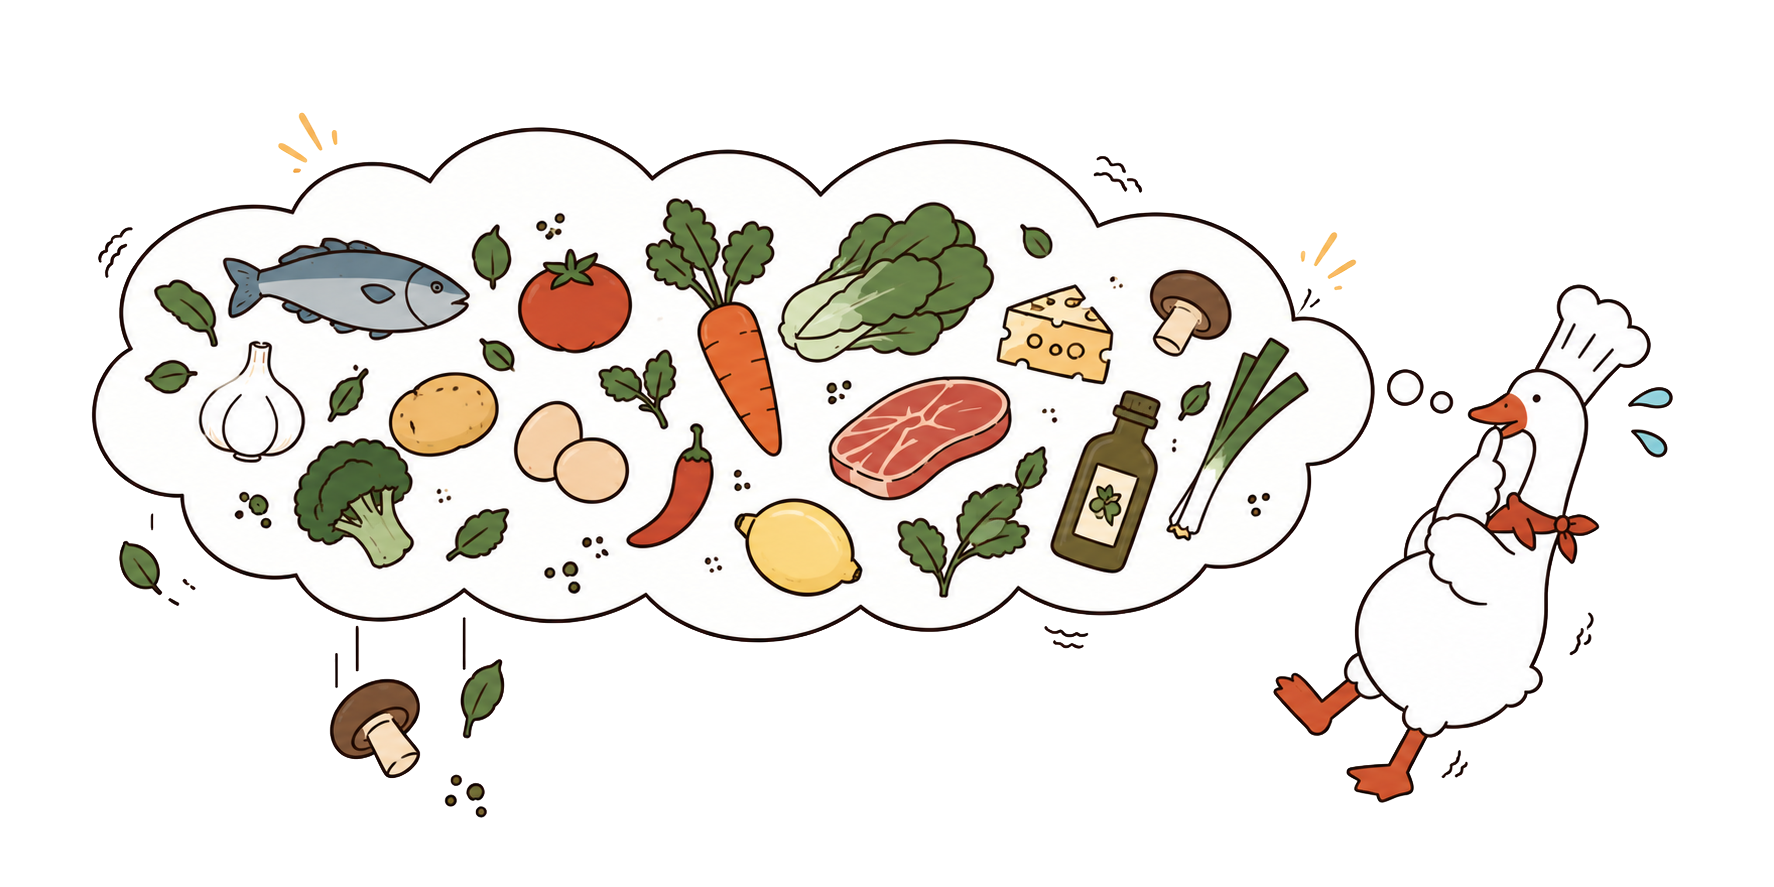
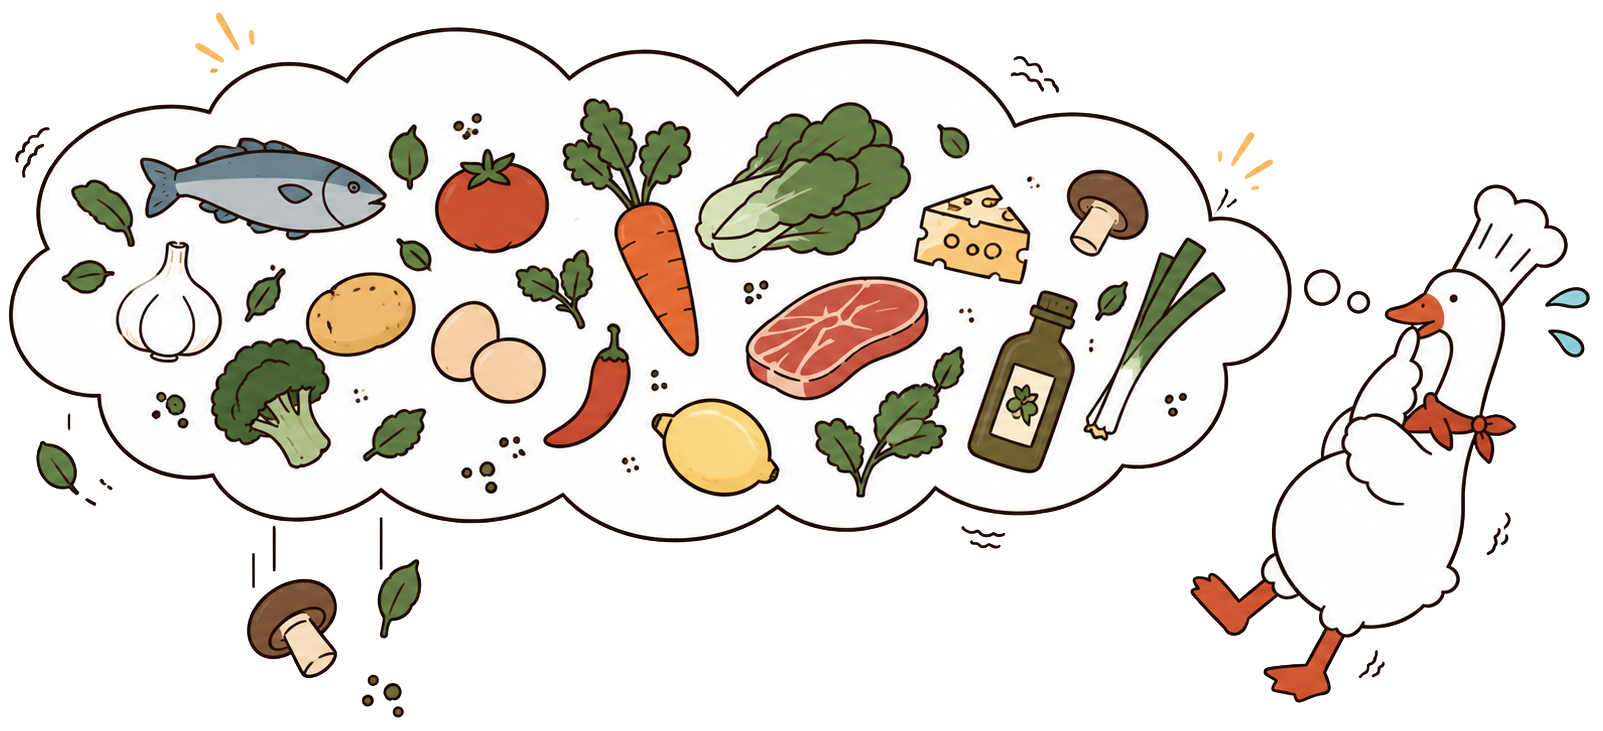
Both headers stand their goose in the same frame
The two scenery frames had drifted: Cooks held its choir in a 380px
frame with the art at 90% and left-aligned inside it, Conversation held
its goose in a 580px frame with the art at 60% and pushed flush right.
Same idea, different numbers, so the bird landed in a different place
on each page.

One definition now, .ds-scene / .ds-scene-art in design-v4.css, next to
the other page furniture. Both pages measure identically: a 380px frame
at the row's right, art 342px wide at the frame's leading edge, hanging
8px below the baseline so the goose stands on the line the aside sits
on. The art keeps a margin of white to its right rather than running
into the page gutter.

Only the singing stays local to Cooks — the choir still grows to full
width and sways while a cook is reading. The conversation goose is
still scenery and still does nothing.

Conversation's title row takes Cooks' gap, top padding and copy basis
with it, so the two headers are the same object.

Also commits the replaced chef-goose-thinking-wide.png (1603x731, was
1774x887), which is what has been on disk and rendering since it was
swapped in.

diff --git a/src/pages/ConversationPage.css b/src/pages/ConversationPage.css
@@ -43,16 +43,12 @@
   flex-wrap: wrap;
   align-items: flex-end;
   justify-content: space-between;
-  gap: 16px 24px;
-  padding: 24px 0 22px;
+  gap: 16px 32px;
+  padding: 26px 0 22px;
 }
-.convo-title-copy { flex: 1 1 360px; min-width: 0; display: flex; flex-direction: column; gap: 6px; }
-
-/* Scenery. It hangs a little below the row's baseline so the goose
-   stands on the line the aside sits on, and it is right-aligned inside
-   a frame wider than itself so it keeps that edge as the row reflows. */
-.convo-hero { flex: 0 1 580px; min-width: 300px; margin-bottom: -8px; }
-.convo-hero-art { display: block; width: 60%; height: auto; margin-left: auto; }
+.convo-title-copy { flex: 1 1 420px; min-width: 0; display: flex; flex-direction: column; gap: 6px; }
+/* The scenery frame is .ds-scene (design-v4.css) — the same one the
+   cooks page stands its choir in. */
 /* The underline hangs 9px below the baseline and takes no space, so the
    title reserves it rather than letting the sub-line sit on top. */
 .convo-title-mark { align-self: flex-start; margin-bottom: 6px; }
@@ -272,8 +268,6 @@
 
 @media (max-width: 720px) {
   .convo-title-row { padding: 16px 0; }
-  /* Scenery is the first thing to go when the header runs out of room. */
-  .convo-hero { display: none; }
   .convo-panel { padding: 16px; }
   .chat-row { max-width: 88%; }
   .convo-done-actions { width: 100%; justify-content: flex-end; }

diff --git a/src/pages/VoiceBindingPage.css b/src/pages/VoiceBindingPage.css
@@ -38,13 +38,11 @@
 }
 .vb-title-copy { flex: 1 1 420px; min-width: 0; display: flex; flex-direction: column; gap: 6px; }
 
-/* The choir sits a little below the row's baseline so the goslings'
-   feet land on it rather than floating above it. */
-.vb-choir { flex: 0 1 380px; min-width: 240px; margin-bottom: -8px; }
-.vb-choir-art { display: block; width: 90%; height: auto; transition: width 240ms ease-out; }
-/* Someone is singing: the choir stands to full width and sways from
-   its feet. */
-.vb-choir-art.is-singing {
+/* The frame and the resting size come from .ds-scene (design-v4.css).
+   Only the singing is this page's: the choir stands to full width and
+   sways from its feet while a cook is reading. */
+.voice-binding-page .ds-scene-art { transition: width 240ms ease-out; }
+.voice-binding-page .ds-scene-art.is-singing {
   width: 100%;
   transform-origin: 50% 100%;
   animation: vb-choir 900ms ease-in-out infinite;
@@ -653,8 +651,6 @@
 }
 @media (max-width: 720px) {
   .vb-title-row { padding: 16px 0; }
-  /* Scenery is the first thing to go when the header runs out of room. */
-  .vb-choir { display: none; }
   .vb-panel { padding: 16px; }
   .vb-locked-rows { grid-template-columns: 1fr; }
   .cook-slot { min-height: 0; }

diff --git a/src/styles/design-v4.css b/src/styles/design-v4.css
@@ -278,11 +278,22 @@ body:has(.app-shell.ds-v4) { background: var(--kp-bg); }
    first thing a narrow footer drops. */
 .ds-v4 .ds-tracks { position: relative; flex: none; width: 64px; height: 40px; opacity: 0.7; }
 
+/* Page scenery: the goose art that sits opposite a page's title copy in
+   a .ds-title-row. The frame is wider than the art it holds, and the art
+   sits at the frame's leading edge rather than flush to the page gutter,
+   so the bird keeps a margin of white to stand in as the row reflows.
+   It hangs 8px below the row's baseline so the goose stands ON the line
+   the aside sits on instead of floating above it. */
+.ds-v4 .ds-scene { flex: 0 1 380px; min-width: 240px; margin-bottom: -8px; }
+.ds-v4 .ds-scene-art { display: block; width: 90%; height: auto; }
+
 /* ---------------- narrow ---------------- */
 @media (max-width: 720px) {
   .ds-v4 .topbar { padding: 16px 0 12px; }
   .ds-v4 .ds-underline { display: none; }
   .ds-v4 .ds-tracks { display: none; }
+  /* Scenery is the first thing to go when a header runs out of room. */
+  .ds-v4 .ds-scene { display: none; }
 }
 
 /* ---------------- reduced motion ----------------

diff --git a/src/pages/VoiceBindingPage.jsx b/src/pages/VoiceBindingPage.jsx
@@ -647,9 +647,9 @@ export default function VoiceBindingPage() {
         {/* The page's one piece of scenery: the choir stands up and
             sways while a cook is reading, and sits back down when the
             room goes quiet. */}
-        <div className="vb-choir">
+        <div className="ds-scene">
           <img
-            className={`vb-choir-art${recordingCookId ? " is-singing" : ""}`}
+            className={`ds-scene-art${recordingCookId ? " is-singing" : ""}`}
             src={gooseChoir}
             alt="Chef Goose leading a choir of goslings"
           />

diff --git a/src/pages/ConversationPage.jsx b/src/pages/ConversationPage.jsx
@@ -391,8 +391,8 @@ export default function ConversationPage() {
         </div>
         {/* The goose is still thinking the dish up, which is exactly
             what this page is for. Scenery only — no state rides on it. */}
-        <div className="convo-hero">
-          <img className="convo-hero-art" src={gooseThinking} alt="Chef Goose picturing tonight’s ingredients" />
+        <div className="ds-scene">
+          <img className="ds-scene-art" src={gooseThinking} alt="Chef Goose picturing tonight’s ingredients" />
         </div>
       </header>
 
